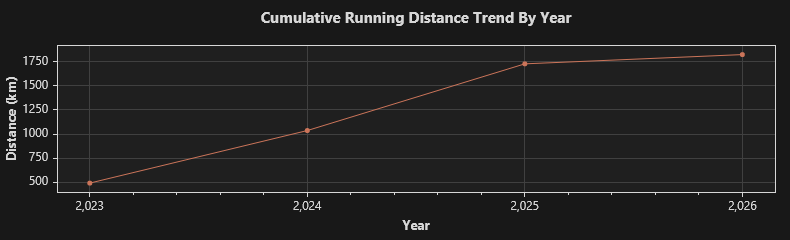
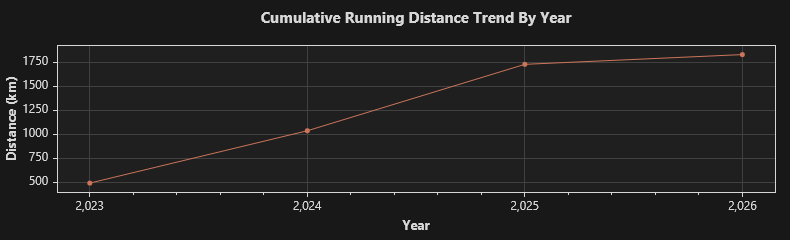
2026/3/9 跑步 5.54 公里

diff --git a/trend.md b/trend.md
@@ -1,4 +1,4 @@
-### Total: 311 days, 1824.87 km.
+### Total: 312 days, 1830.41 km.
 
 
 ![Monthly](https://github.com/prime167/MyRunningLog/blob/main/data/CumulativeTrendByMonth.png)
